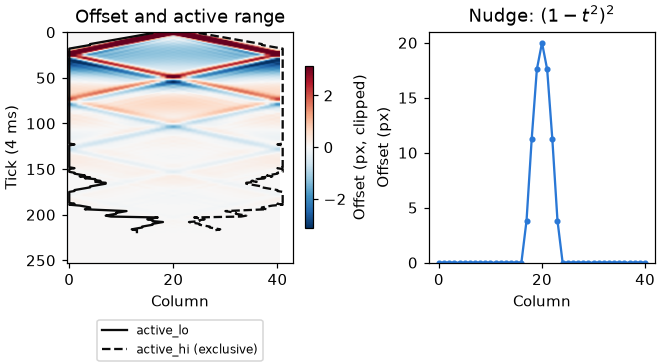
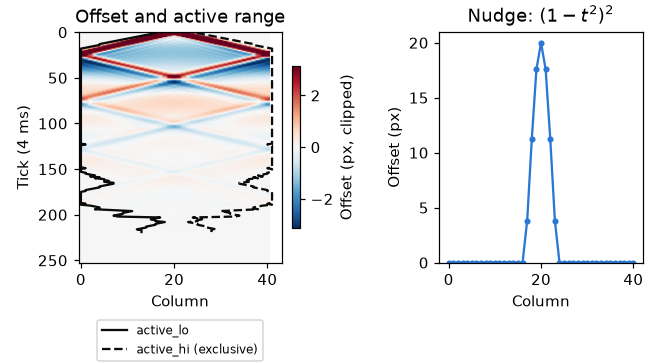
math: separate spring plot labels and clarify reference prose

diff --git a/launcher/tools/math/motion_figures.py b/launcher/tools/math/motion_figures.py
@@ -30,7 +30,7 @@ FLING_HALF_LIVES = 4
 TRAIL_SAMPLES = 5
 ORBIT_MARGIN = 1.1
 ANIMATION_DPI = 80
-DECAY_LABEL_PADDING = 0.15
+PANEL_LABEL_PADDING = 0.15
 WAVE_COLOR_PERCENTILE = 98
 WAVE_PUSH_TICKS = 5
 
@@ -76,7 +76,7 @@ def orbit_animation(data, output):
 
 def decay_figure(data, output):
     fig, axes = subplots(1, PANELS, (PANEL_SIZE * PANELS, PANEL_SIZE + PANEL_TITLE_ROOM))
-    fig.get_layout_engine().set(w_pad=DECAY_LABEL_PADDING)
+    fig.get_layout_engine().set(w_pad=PANEL_LABEL_PADDING)
     for index, (run, color) in enumerate(zip(data, SLOTS)):
         samples = np.array(run["samples"])
         for axis, column in zip(axes, (1, 2)):
@@ -146,6 +146,7 @@ def wave_figures(data, output):
 
     save_gif(fig, draw, GIF_FRAMES, output / "spring-line-wave.gif", GIF_FPS)
     fig, (heat, bump) = subplots(1, PANELS, (PANEL_SIZE * PANELS, PANEL_SIZE + PANEL_TITLE_ROOM))
+    fig.get_layout_engine().set(w_pad=PANEL_LABEL_PADDING)
     bound = np.percentile(abs(offsets[WAVE_PUSH_TICKS:]), WAVE_COLOR_PERCENTILE)
     image = heat.imshow(offsets, aspect="auto", origin="upper", cmap=OFFSET_COLORMAP, vmin=-bound, vmax=bound,
                         extent=(-COLUMN_EDGE, offsets.shape[1] - COLUMN_EDGE, len(runs) - COLUMN_EDGE, -COLUMN_EDGE))

diff --git a/launcher/packages/math/include/math/motion/orbit_motion.h b/launcher/packages/math/include/math/motion/orbit_motion.h
@@ -4,9 +4,9 @@
  * (pitch), always facing it. Steering turns it directly; let go and it
  * keeps turning, slowing by half every fling half-life; a reset springs it
  * back to its home angles, critically damped: from rest it never overshoots,
- * though a fast swing toward home can cross it once. Every
- * step is solved exactly for its dt, so the motion is the same at any frame
- * rate. Any entity can orbit this way: a camera, a light, a prop.
+ * though a fast swing toward home can cross it once. Every step is solved
+ * exactly for its dt, so the motion is the same at any frame rate. Any entity
+ * can orbit this way: a camera, a light, a prop.
  *
  * Pure: steering arrives as turns already in radians, and the result is a
  * transformf_t the caller writes into its entity. Distance is held as its

diff --git a/docs/math/Signal.md b/docs/math/Signal.md
@@ -43,24 +43,24 @@ $`20\log_{10}(2)`$ dB.
 
 ### Frequency response
 
-A finite rectangular window spreads a tone across nearby bins. For normalized
+A finite rectangular window spreads a tone across nearby frequencies. For normalized
 frequency offset $`d=(f-f_0)/f_s`$, the positive-frequency Dirichlet reference is:
 
 ```math
 R_N(d)=\left\lvert\frac{\sin(\pi N d)}{N\sin(\pi d)}\right\rvert, \qquad R_N(0)=1
 ```
 
-A real sine also has a negative-frequency term, so the measured response can
-differ slightly from this reference. At a shared sample rate, doubling the
-window length halves the main lobe width in Hz.
+A real sine's negative-frequency term slightly changes this reference response.
+At a shared sample rate, doubling the window length halves the main lobe width
+in Hz.
 
-![Goertzel amplitude of a unit sine around a detector bin for three window lengths, with a dashed Dirichlet reference](../images/math/goertzel-response.png)
+![Goertzel amplitude of a unit sine against its offset from the detector frequency in Hz, for window lengths 64, 128 and 256, with a dashed Dirichlet reference per length](../images/math/goertzel-response.png)
 
 Each chirp block resets the detectors for a fresh window. The top panel tracks
-chirp frequency and the current block. Below, amplitude curves grow as the tone
-passes each fixed detector frequency.
+chirp frequency and the current block. Below, each detector's amplitude is plotted
+against sweep frequency and peaks as the tone passes it.
 
-![Chirp frequency over time and progressive amplitude readings for three fixed-frequency detectors](../images/math/goertzel-sweep.gif)
+![Top: a linear chirp's frequency over time with a cursor at the current block. Bottom: three fixed-frequency detectors' amplitude against sweep frequency, peaking as the chirp passes each](../images/math/goertzel-sweep.gif)
 
 ## Equal-temperament pitch
 
@@ -73,8 +73,8 @@ converts semitone errors to cents.
 | `pitch_semitone_hz(reference_hz, semitones)` | `reference_hz * exp2f(semitones / PITCH_SEMITONES_PER_OCTAVE)` |
 | `pitch_hz_semitones(reference_hz, hz)` | `PITCH_SEMITONES_PER_OCTAVE * log2f(hz / reference_hz)`; `NAN` if either frequency is nonpositive |
 
-
-For reference frequency $`f_r`$ and semitone offset $`s`$, with octave scale $`O`$:
+For reference frequency $`f_r`$ and semitone offset $`s`$, with $`O`$ =
+`PITCH_SEMITONES_PER_OCTAVE`:
 
 ```math
 f=f_r 2^{s/O}, \qquad s=O\log_2(f/f_r)

diff --git a/docs/math/Motion.md b/docs/math/Motion.md
@@ -29,7 +29,8 @@ A transform orbits a target, with direct steering, a decaying fling and a critic
 ### Steering and fling
 
 Held steering applies the frame's turn $`\Delta`$ directly. Its smoothed speed
-follows that turn over the frame time $`\Delta t`$, with half-life $`h_d`$:
+follows that turn over the frame time $`\Delta t`$, with half-life $`h_d`$
+(`ORBIT_MOTION_DRAG_VELOCITY_HALF_LIFE_S`):
 
 ```math
 v \gets v + (\Delta/\Delta t-v)(1-2^{-\Delta t/h_d})
@@ -37,8 +38,9 @@ v \gets v + (\Delta/\Delta t-v)(1-2^{-\Delta t/h_d})
 
 ![Top view of held orbit steering followed by a slowing fling, with a moving speed cursor and half-life marks](../images/math/orbit-fling.gif)
 
-After release, speed halves every $`h`$ seconds. The exact integral gives the
-angle covered; the same elapsed time gives the same result at either frame step.
+After release, speed halves every $`h`$ seconds (`ORBIT_MOTION_FLING_HALF_LIFE_S`).
+The exact integral gives the angle covered; the same elapsed time gives the same
+result at either frame step.
 
 ```math
 v(t)=v_0 2^{-t/h}, \qquad x(t)=\frac{v_0 h}{\ln 2}(1-2^{-t/h})
@@ -62,9 +64,8 @@ Critical damping prevents oscillation; it does not guarantee no crossing for
 arbitrary initial velocity. For $`e_0>0`$, a velocity $`v_0<-e_0/\tau`$ crosses
 home.
 
-Reset snaps home when all angle offsets (rad), log-distance offsets and speeds
-(per second) fall below `ORBIT_MOTION_RESET_SETTLED` ($`10^{-4}`$). This strict
-threshold explains why the dotted settle times follow visibly flat curves.
+Reset snaps home once every yaw, pitch and log-distance offset and its speed is
+below `ORBIT_MOTION_RESET_SETTLED`. The dotted lines mark that moment.
 
 ![Reset from rest, moving away, and moving quickly toward home; the last crosses home, with dotted settle times](../images/math/orbit-reset-spring.png)
 
@@ -106,7 +107,6 @@ A row of points on springs carries a wave along caller-owned Q16 pixel offsets a
 | `SPRING_LINE_REST_OFFSET`, `SPRING_LINE_REST_VELOCITY` | Thresholds for putting the line to rest |
 | `SPRING_LINE_MAX_OFFSET` | Maximum offset magnitude |
 | `SPRING_LINE_OUT_SHIFT`, `SPRING_LINE_OUT_ONE` | Fractional bits and units per output pixel |
-
 
 ### Wave tick and bump
 
